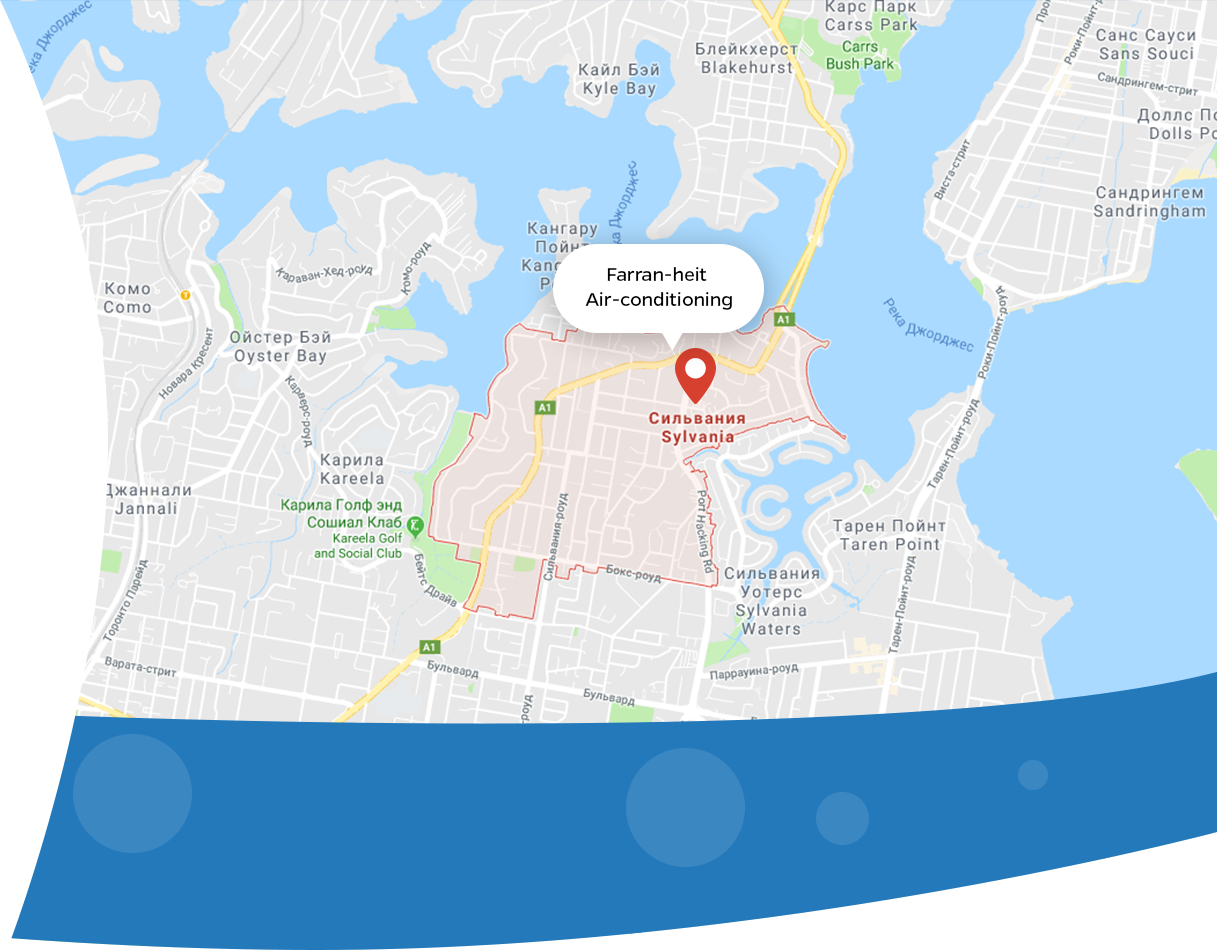
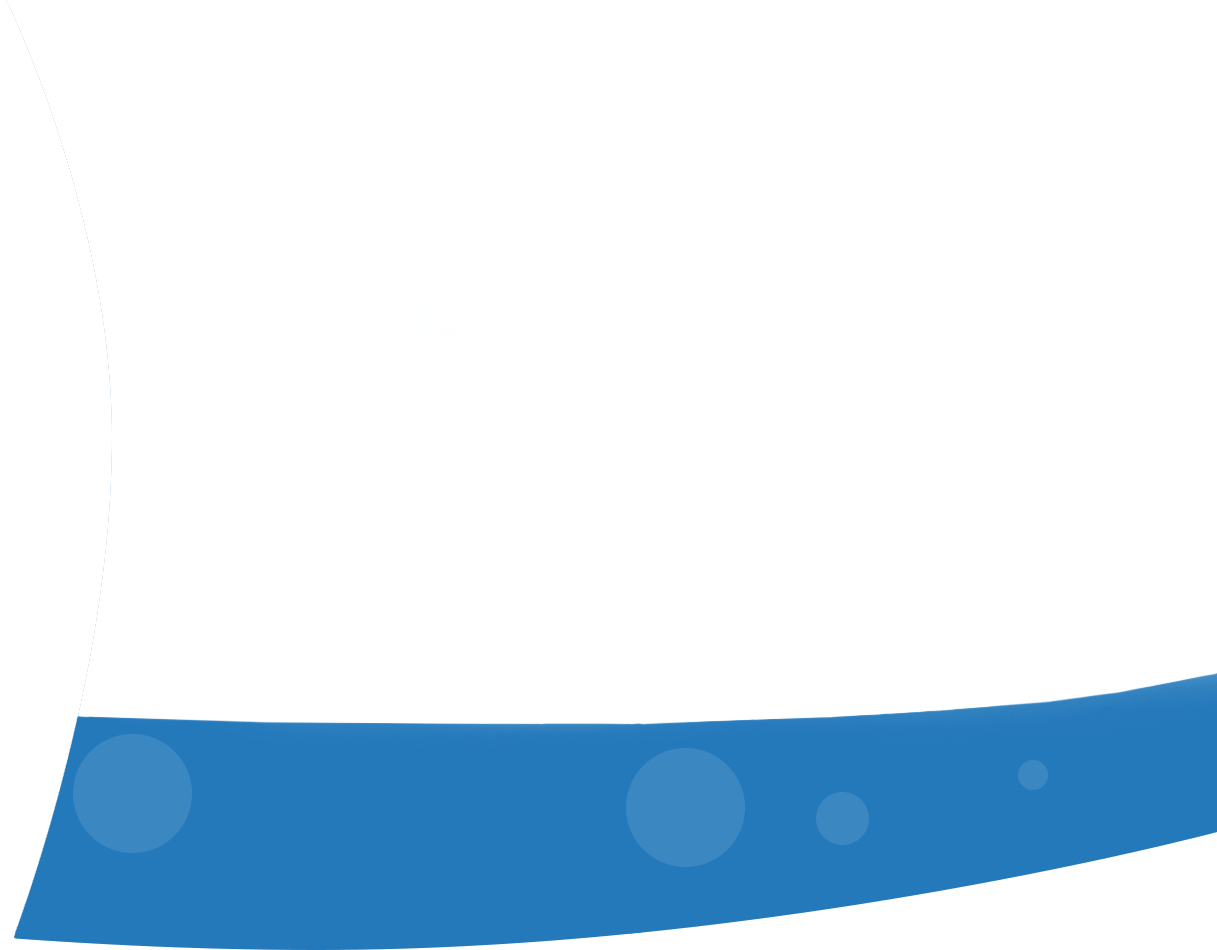
first fix

diff --git a/app/contact.html b/app/contact.html
@@ -26,7 +26,7 @@
   </head>
   <body>
   <header>
-    <div class="header">
+    <div class="header contact">
       <div class="header__left">
         <div class="header__left__inner">
           <div class="header__left__top">
@@ -58,7 +58,7 @@
           </form>
           <div class="header__map mob-d">
             <div class="header__map__img">
-              <img src="images/map-mini.png" alt="">
+              <div id="map-1"></div>
             </div>
             <h4>adrees</h4>
             <p>
@@ -74,6 +74,9 @@
         </div>
       </div>
       <div class="header__img">
+        <div class="header__img__map">
+          <div id="map"></div>
+        </div>
         <div class="header__img__text">
           <h4>adrees</h4>
           <p>
@@ -86,7 +89,8 @@
             Tel: 0424327726
           </p>
         </div>
-        <img src="images/bg-5.png" alt="">
+
+        <!--<img src="images/bg-5.png" alt="">-->
       </div>
     </div>
   </header>
@@ -159,7 +163,73 @@
     <script src="/bower_components/bootstrap-sass/assets/javascripts/bootstrap/collapse.js"></script>
     <script src="/bower_components/bootstrap-sass/assets/javascripts/bootstrap/tab.js"></script>
     <!-- endbuild -->
-    
+
+
+
+  <!-- Google Analytics: change UA-XXXXX-X to be your site's ID. -->
+  <script src="https://maps.googleapis.com/maps/api/js?key=AIzaSyD6AvtDOz1HkY1uEX6q4BtyFPeRKC5XN1o&amp;">
+  </script>
+
+  <script type="text/javascript">
+      // When the window has finished loading create our google map below
+      google.maps.event.addDomListener(window, 'load', init);
+
+      function init() {
+          // Basic options for a simple Google Map
+          // For more options see: https://developers.google.com/maps/documentation/javascript/reference#MapOptions
+
+
+          var mapOptions = {
+              // How zoomed in you want the map to start at (always required)
+              zoom: 14,
+              // The latitude and longitude to center the map (always required)
+              center: new google.maps.LatLng(50.436256, 30.516409), //  ,
+              gestureHandling: 'cooperative',
+
+              // How you would like to style the map.
+              // This is where you would paste any style found on Snazzy Maps.
+              styles: [
+
+              ]
+          };
+
+          // Get the HTML DOM element that will contain your map
+          // We are using a div with id="map" seen below in the <body>
+          var mapElement = document.getElementById('map');
+          var mapElement1 = document.getElementById('map-1');
+          // Create the Google Map using our element and options defined above
+          var map = new google.maps.Map(mapElement, mapOptions);
+          var map = new google.maps.Map(mapElement1, mapOptions);
+
+          // Let's also add a marker while we're at it
+          var contentString = '<div id="content">'+
+              '<div id="siteNotice">'+
+              '</div>'+
+              '<div class="infowindow" id="bodyContent">'+
+                '<p>Farrcan-heit <br> Air-conditioning</p>'+
+              '</div>'+
+              '</div>';
+          var infowindow = new google.maps.InfoWindow({
+              content: contentString
+          });
+
+          var marker = new google.maps.Marker({
+              position:  {lat:50.436256, lng:30.516409},
+              map: map,
+              icon: 'images/marker.png'
+          });
+          marker.addListener('click', function() {
+              infowindow.open(map, marker);
+          });
+          infowindow.open(map, marker);
+      }
+
+  </script>
+
+
+
+
+
     <!-- build:js scripts/main.js -->
     <script src="scripts/main.js"></script>
     <!-- endbuild -->

diff --git a/app/styles/main.scss b/app/styles/main.scss
@@ -104,7 +104,7 @@ h3{
       z-index: 1;
       color: white;
       left:125px;
-      bottom: 30px;
+      bottom: 50px;
     }
   }
   &__left{
@@ -243,17 +243,25 @@ h3{
     input[type="email"],
     input[type="tel"],
     textarea{
+      background: transparent;
       padding-left: 15px;
       width: 70%;
       resize: none;
       box-sizing: border-box;
       height: 41px;
       margin-bottom: 14px;
+      border:1px solid #cccccc;
     }
     .butt{
+      margin-top: 15px;
       border:none;
       display: inline-block;
-      width: 165px;
+      width: 145px;
+      font-size: 21px;
+      -webkit-border-radius: 25px;
+      -moz-border-radius: 25px;
+      border-radius: 25px;
+      padding: 11px 45px;
     }
   }
   &__map{
@@ -612,6 +620,29 @@ h3{
     text-align: center;
   }
 }
+.header__img__map{
+  position: relative;
+  height: 950px;
+  &:before{
+    content: '';
+    position: absolute;
+    left: 0;
+    top: 0;
+    height: 100%;
+    width: 100%;
+    background: url("../images/bg-5.png")no-repeat left bottom;
+    z-index: 1;
+    pointer-events: none;
+  }
+}
+#map{
+  height: 850px;
+  width: 100%;
+}
+#map-1{
+  width: 100%;
+  height: 400px;
+}
 .company-slider,
 .portfolio-slider{
   width:80%;
@@ -673,6 +704,13 @@ h3{
     transform: rotate(0deg);
   }
 }
+.infowindow p{
+  font-size: 21px;
+  text-align: center;
+}
+.contact .header__left__menu{
+  margin-bottom: 50px;
+}
 @media screen and (max-width: 1920px) {
   .header__img img{
     max-width: 100%;
@@ -697,9 +735,6 @@ h3{
   }
 }
 @media screen and (max-width: 1680px) {
-  .header__img__text{
-    bottom: 10px;
-  }
   .header__img__text h4{
     font-size: 26px;
     margin-bottom: 5px;
@@ -767,17 +802,6 @@ h3{
   }
 }
 @media screen and (max-width: 1220px) {
-  .header__img__text{
-    left: 55px;
-    bottom: 0;
-  }
-  .header__img__text h4{
-    font-size: 22px;
-    margin-bottom: 0;
-  }
-  .header__img__text p{
-    font-size: 14px;
-  }
   .header__left{
     width: 50%;
   }
@@ -838,18 +862,6 @@ h3{
   }
 }
 @media screen and (max-width: 992px) {
-  .header__img__text{
-    left: 35px;
-    bottom: 10px;
-  }
-  .header__img__text h4{
-    font-size: 18px;
-    margin-bottom: 0;
-  }
-  .header__img__text p{
-    font-size: 12px;
-    margin-bottom: 0;
-  }
   .header__left{
     padding: 15px;
   }
@@ -908,7 +920,9 @@ h3{
   .mob-d{
     display: block;
   }
-
+  .header__map{
+    width: 100%;
+  }
   .header{
     width: 100%;
   }
